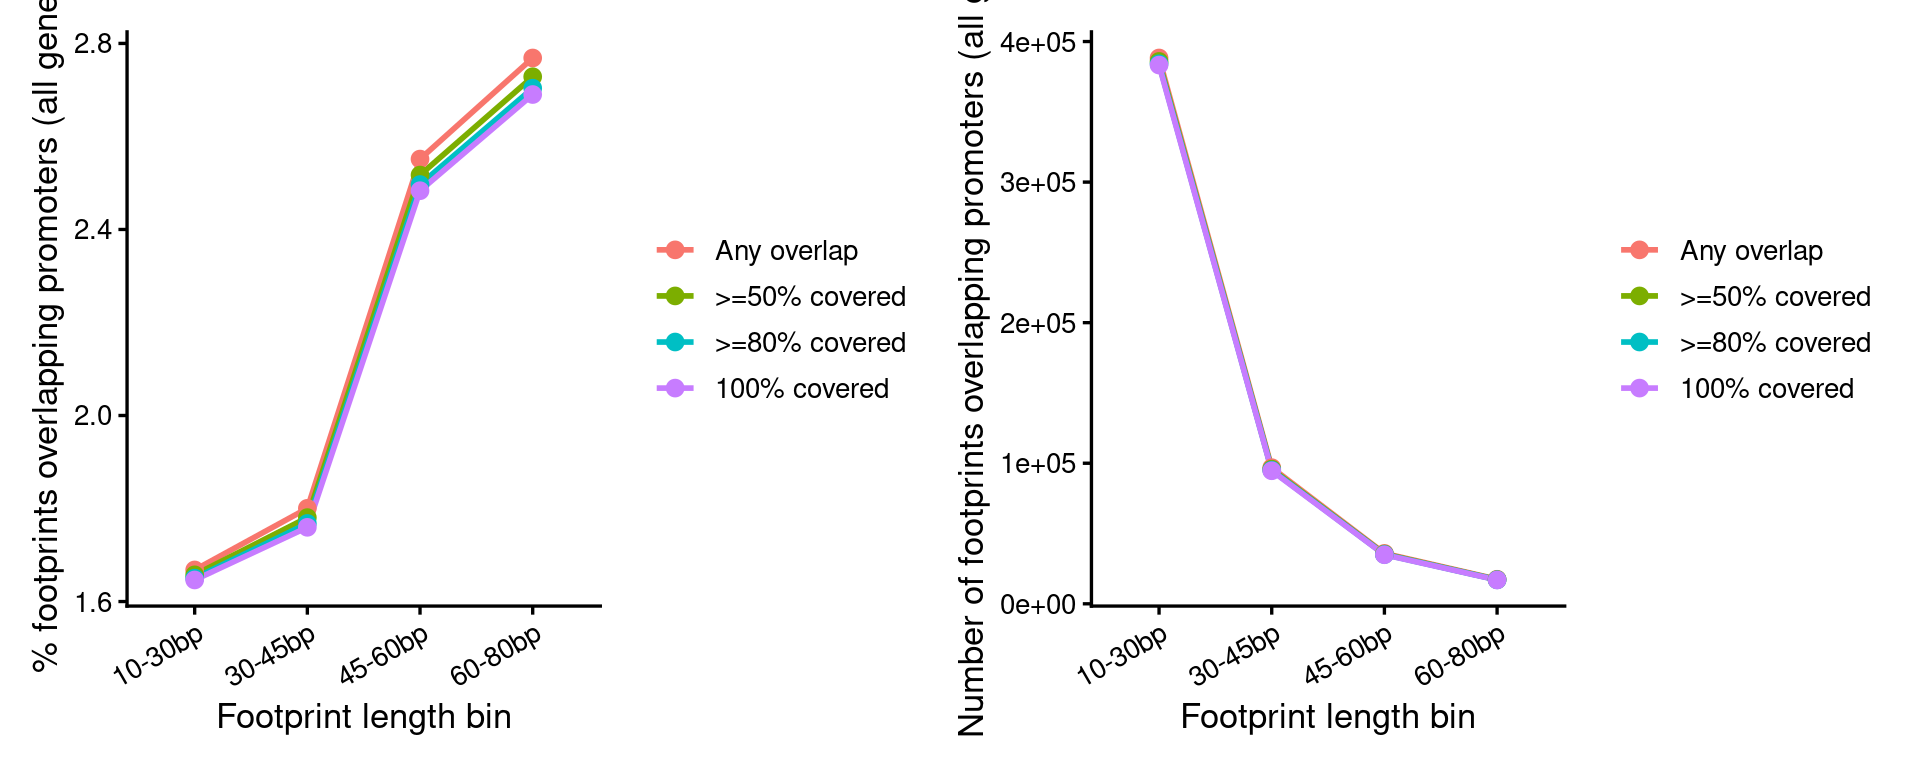
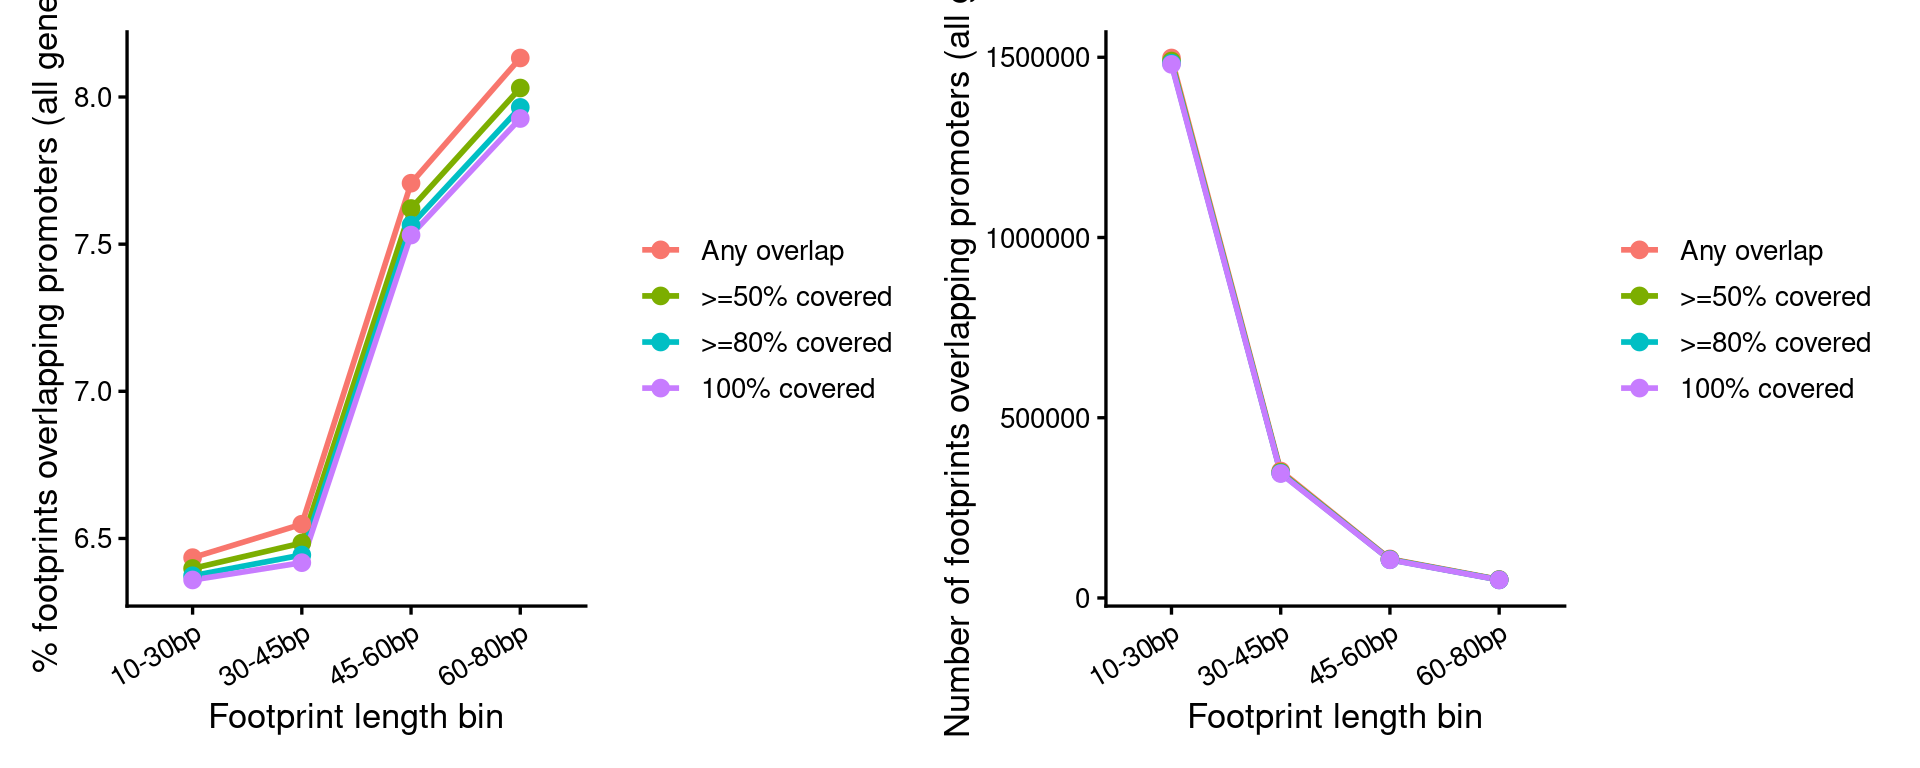
update

diff --git a/docs/annotation_by_location.html b/docs/annotation_by_location.html
@@ -440,10 +440,10 @@ changes </a>
 <div id="strongRMarkdownfilestronguncommittedchanges"
 class="panel-collapse collapse">
 <div class="panel-body">
-<p>The R Markdown is untracked by Git. To know which version of the R
-Markdown file created these results, you’ll want to first commit it to
-the Git repo. If you’re still working on the analysis, you can ignore
-this warning. When you’re finished, you can run
+<p>The R Markdown file has unstaged changes. To know which version of
+the R Markdown file created these results, you’ll want to first commit
+it to the Git repo. If you’re still working on the analysis, you can
+ignore this warning. When you’re finished, you can run
 <code>wflow_publish</code> to commit the R Markdown file and build the
 HTML.</p>
 </div>
@@ -536,15 +536,15 @@ project makes it easier to run your code on other machines.</p>
 <div class="panel panel-default">
 <div class="panel-heading">
 <p class="panel-title">
-<a data-toggle="collapse" data-parent="#workflowr-checks" href="#strongRepositoryversionstrongahrefhttpsgithubcomxsun1229fiberseqtree135f7647f43b090e4f5527690ba69c43f046ddf2targetblank135f764a">
+<a data-toggle="collapse" data-parent="#workflowr-checks" href="#strongRepositoryversionstrongahrefhttpsgithubcomxsun1229fiberseqtree31a3c60f5fc4e1a1ed79e6df038ce49956aff8c0targetblank31a3c60a">
 <span class="glyphicon glyphicon-ok text-success"
 aria-hidden="true"></span> <strong>Repository version:</strong>
-<a href="https://github.com/xsun1229/fiberseq/tree/135f7647f43b090e4f5527690ba69c43f046ddf2" target="_blank">135f764</a>
+<a href="https://github.com/xsun1229/fiberseq/tree/31a3c60f5fc4e1a1ed79e6df038ce49956aff8c0" target="_blank">31a3c60</a>
 </a>
 </p>
 </div>
 <div
[2 lines of base64/hex data omitted]
 class="panel-collapse collapse">
 <div class="panel-body">
 <p>
@@ -554,7 +554,7 @@ reproducibility.
 </p>
 <p>
 The results in this page were generated with repository version
-<a href="https://github.com/xsun1229/fiberseq/tree/135f7647f43b090e4f5527690ba69c43f046ddf2" target="_blank">135f764</a>.
+<a href="https://github.com/xsun1229/fiberseq/tree/31a3c60f5fc4e1a1ed79e6df038ce49956aff8c0" target="_blank">31a3c60</a>.
 See the <em>Past versions</em> tab to see a history of the changes made
 to the R Markdown and HTML files.
 </p>
@@ -568,11 +568,8 @@ depends on. Below is the status of the Git repository when the results
 were generated:
 </p>
 <pre><code>
-Untracked files:
-    Untracked:  analysis/annotation_by_location.Rmd
-
 Unstaged changes:
-    Modified:   analysis/index.Rmd
+    Modified:   analysis/annotation_by_location.Rmd
 
 </code></pre>
 <p>
@@ -587,10 +584,75 @@ have uncommitted changes.
 <hr>
 </div>
 <div id="versions" class="tab-pane fade">
+
 <p>
-There are no past versions. Publish this analysis with
-<code>wflow_publish()</code> to start tracking its development.
+These are the previous versions of the repository in which changes were
+made to the R Markdown
+(<code>analysis/annotation_by_location.Rmd</code>) and HTML
+(<code>docs/annotation_by_location.html</code>) files. If you’ve
+configured a remote Git repository (see <code>?wflow_git_remote</code>),
+click on the hyperlinks in the table below to view the files as they
+were in that past version.
 </p>
+<div class="table-responsive">
+<table class="table table-condensed table-hover">
+<thead>
+<tr>
+<th>
+File
+</th>
+<th>
+Version
+</th>
+<th>
+Author
+</th>
+<th>
+Date
+</th>
+<th>
+Message
+</th>
+</tr>
+</thead>
+<tbody>
+<tr>
+<td>
+Rmd
+</td>
+<td>
+<a href="https://github.com/xsun1229/fiberseq/blob/31a3c60f5fc4e1a1ed79e6df038ce49956aff8c0/analysis/annotation_by_location.Rmd" target="_blank">31a3c60</a>
+</td>
+<td>
+XSun
+</td>
+<td>
+2026-02-17
+</td>
+<td>
+update
+</td>
+</tr>
+<tr>
+<td>
+html
+</td>
+<td>
+<a href="https://rawcdn.githack.com/xsun1229/fiberseq/31a3c60f5fc4e1a1ed79e6df038ce49956aff8c0/docs/annotation_by_location.html" target="_blank">31a3c60</a>
+</td>
+<td>
+XSun
+</td>
+<td>
+2026-02-17
+</td>
+<td>
+update
+</td>
+</tr>
+</tbody>
+</table>
+</div>
 <hr>
 </div>
 </div>
@@ -652,6 +714,43 @@ ggplot(res_counts, aes(x = fp_length, y = n_fp)) +
   theme_classic(base_size = 13) +
   theme(axis.text.x = element_text(angle = 30, hjust = 1))</code></pre>
 <p><img src="figure/annotation_by_location.Rmd/unnamed-chunk-2-1.png" width="672" style="display: block; margin: auto;" /></p>
+<p>
+<button type="button" class="btn btn-default btn-xs btn-workflowr btn-workflowr-fig" data-toggle="collapse" data-target="#fig-unnamed-chunk-2-1">
+Past versions of unnamed-chunk-2-1.png
+</button>
+</p>
+<div id="fig-unnamed-chunk-2-1" class="collapse">
+<div class="table-responsive">
+<table class="table table-condensed table-hover">
+<thead>
+<tr>
+<th>
+Version
+</th>
+<th>
+Author
+</th>
+<th>
+Date
+</th>
+</tr>
+</thead>
+<tbody>
+<tr>
+<td>
+<a href="https://github.com/xsun1229/fiberseq/blob/31a3c60f5fc4e1a1ed79e6df038ce49956aff8c0/docs/figure/annotation_by_location.Rmd/unnamed-chunk-2-1.png" target="_blank">31a3c60</a>
+</td>
+<td>
+XSun
+</td>
+<td>
+2026-02-17
+</td>
+</tr>
+</tbody>
+</table>
+</div>
+</div>
 </div>
 </div>
 <div id="promoter" class="section level1">
@@ -822,10 +921,47 @@ p_cnt &lt;- ggplot(cnt_long, aes(fp_length, n, color = threshold, group = thresh
 
 p_pct + p_cnt</code></pre>
 <p><img src="figure/annotation_by_location.Rmd/unnamed-chunk-3-1.png" width="960" style="display: block; margin: auto;" /></p>
+<p>
+<button type="button" class="btn btn-default btn-xs btn-workflowr btn-workflowr-fig" data-toggle="collapse" data-target="#fig-unnamed-chunk-3-1">
+Past versions of unnamed-chunk-3-1.png
+</button>
+</p>
+<div id="fig-unnamed-chunk-3-1" class="collapse">
+<div class="table-responsive">
+<table class="table table-condensed table-hover">
+<thead>
+<tr>
+<th>
+Version
+</th>
+<th>
+Author
+</th>
+<th>
+Date
+</th>
+</tr>
+</thead>
+<tbody>
+<tr>
+<td>
+<a href="https://github.com/xsun1229/fiberseq/blob/31a3c60f5fc4e1a1ed79e6df038ce49956aff8c0/docs/figure/annotation_by_location.Rmd/unnamed-chunk-3-1.png" target="_blank">31a3c60</a>
+</td>
+<td>
+XSun
+</td>
+<td>
+2026-02-17
+</td>
+</tr>
+</tbody>
+</table>
+</div>
+</div>
 </div>
 <div id="all-genes" class="section level2">
 <h2>All genes</h2>
-<pre class="r"><code>summary_stats_all &lt;- readRDS(&quot;/project/spott/xsun/fiberseq/2.annotating_footprints/results/overlap_with_promoter_TSS-2kb+500bp_proteincoding.RDS&quot;)
+<pre class="r"><code>summary_stats_all &lt;- readRDS(&quot;/project/spott/xsun/fiberseq/2.annotating_footprints/results/overlap_with_promoter_TSS-2kb+500bp_allgenes.RDS&quot;)
 
 summary_stats_all[, fp_len_hi := as.integer(sub(&quot;.*-(\\d+)bp&quot;, &quot;\\1&quot;, fp_length))]
 setorder(summary_stats_all, fp_len_hi)
@@ -893,6 +1029,43 @@ p_cnt &lt;- ggplot(cnt_long, aes(fp_length, n, color = threshold, group = thresh
 
 p_pct + p_cnt</code></pre>
 <p><img src="figure/annotation_by_location.Rmd/unnamed-chunk-4-1.png" width="960" style="display: block; margin: auto;" /></p>
+<p>
+<button type="button" class="btn btn-default btn-xs btn-workflowr btn-workflowr-fig" data-toggle="collapse" data-target="#fig-unnamed-chunk-4-1">
+Past versions of unnamed-chunk-4-1.png
+</button>
+</p>
+<div id="fig-unnamed-chunk-4-1" class="collapse">
+<div class="table-responsive">
+<table class="table table-condensed table-hover">
+<thead>
+<tr>
+<th>
+Version
+</th>
+<th>
+Author
+</th>
+<th>
+Date
+</th>
+</tr>
+</thead>
+<tbody>
+<tr>
+<td>
+<a href="https://github.com/xsun1229/fiberseq/blob/31a3c60f5fc4e1a1ed79e6df038ce49956aff8c0/docs/figure/annotation_by_location.Rmd/unnamed-chunk-4-1.png" target="_blank">31a3c60</a>
+</td>
+<td>
+XSun
+</td>
+<td>
+2026-02-17
+</td>
+</tr>
+</tbody>
+</table>
+</div>
+</div>
 </div>
 </div>
 <div id="ocr-called-by-fire-using-fiber-seq-data"
@@ -967,6 +1140,43 @@ p_cnt &lt;- ggplot(cnt_long, aes(fp_length, n, color = threshold, group = thresh
 
 p_pct + p_cnt</code></pre>
 <p><img src="figure/annotation_by_location.Rmd/unnamed-chunk-5-1.png" width="960" style="display: block; margin: auto;" /></p>
+<p>
+<button type="button" class="btn btn-default btn-xs btn-workflowr btn-workflowr-fig" data-toggle="collapse" data-target="#fig-unnamed-chunk-5-1">
+Past versions of unnamed-chunk-5-1.png
+</button>
+</p>
+<div id="fig-unnamed-chunk-5-1" class="collapse">
+<div class="table-responsive">
+<table class="table table-condensed table-hover">
+<thead>
+<tr>
+<th>
+Version
+</th>
+<th>
+Author
+</th>
+<th>
+Date
+</th>
+</tr>
+</thead>
+<tbody>
+<tr>
+<td>
+<a href="https://github.com/xsun1229/fiberseq/blob/31a3c60f5fc4e1a1ed79e6df038ce49956aff8c0/docs/figure/annotation_by_location.Rmd/unnamed-chunk-5-1.png" target="_blank">31a3c60</a>
+</td>
+<td>
+XSun
+</td>
+<td>
+2026-02-17
+</td>
+</tr>
+</tbody>
+</table>
+</div>
+</div>
 </div>
 <div id="pol2" class="section level1">
 <h1>Pol2</h1>
@@ -1043,6 +1253,43 @@ p_cnt &lt;- ggplot(cnt_long, aes(fp_length, n, color = threshold, group = thresh
 
 p_pct + p_cnt</code></pre>
 <p><img src="figure/annotation_by_location.Rmd/unnamed-chunk-6-1.png" width="960" style="display: block; margin: auto;" /></p>
+<p>
+<button type="button" class="btn btn-default btn-xs btn-workflowr btn-workflowr-fig" data-toggle="collapse" data-target="#fig-unnamed-chunk-6-1">
+Past versions of unnamed-chunk-6-1.png
+</button>
+</p>
+<div id="fig-unnamed-chunk-6-1" class="collapse">
+<div class="table-responsive">
+<table class="table table-condensed table-hover">
+<thead>
+<tr>
+<th>
+Version
+</th>
+<th>
+Author
+</th>
+<th>
+Date
+</th>
+</tr>
+</thead>
+<tbody>
+<tr>
+<td>
+<a href="https://github.com/xsun1229/fiberseq/blob/31a3c60f5fc4e1a1ed79e6df038ce49956aff8c0/docs/figure/annotation_by_location.Rmd/unnamed-chunk-6-1.png" target="_blank">31a3c60</a>
+</td>
+<td>
+XSun
+</td>
+<td>
+2026-02-17
+</td>
+</tr>
+</tbody>
+</table>
+</div>
+</div>
 <br>
 <p>
 <button type="button" class="btn btn-default btn-workflowr btn-workflowr-sessioninfo" data-toggle="collapse" data-target="#workflowr-sessioninfo" style="display: block;">
@@ -1077,11 +1324,11 @@ loaded via a namespace (and not attached):
 [21] rstudioapi_0.13    yaml_2.3.5         xfun_0.41          fastmap_1.1.0     
 [25] withr_2.5.0        dplyr_1.1.4        stringr_1.5.1      knitr_1.39        
 [29] generics_0.1.4     fs_1.5.2           vctrs_0.6.5        sass_0.4.1        
-[33] tidyselect_1.2.0   rprojroot_2.0.3    grid_4.2.0         glue_1.6.2        
+[33] tidyselect_1.2.0   grid_4.2.0         rprojroot_2.0.3    glue_1.6.2        
 [37] R6_2.5.1           fansi_1.0.3        rmarkdown_2.25     farver_2.1.0      
-[41] magrittr_2.0.3     scales_1.4.0       promises_1.2.0.1   htmltools_0.5.2   
-[45] dichromat_2.0-0.1  httpuv_1.6.5       labeling_0.4.2     S7_0.2.0          
-[49] utf8_1.2.2         stringi_1.7.6     </code></pre>
+[41] magrittr_2.0.3     whisker_0.4        scales_1.4.0       promises_1.2.0.1  
+[45] htmltools_0.5.2    dichromat_2.0-0.1  httpuv_1.6.5       labeling_0.4.2    
+[49] S7_0.2.0           utf8_1.2.2         stringi_1.7.6     </code></pre>
 </div>
 </div>
 
